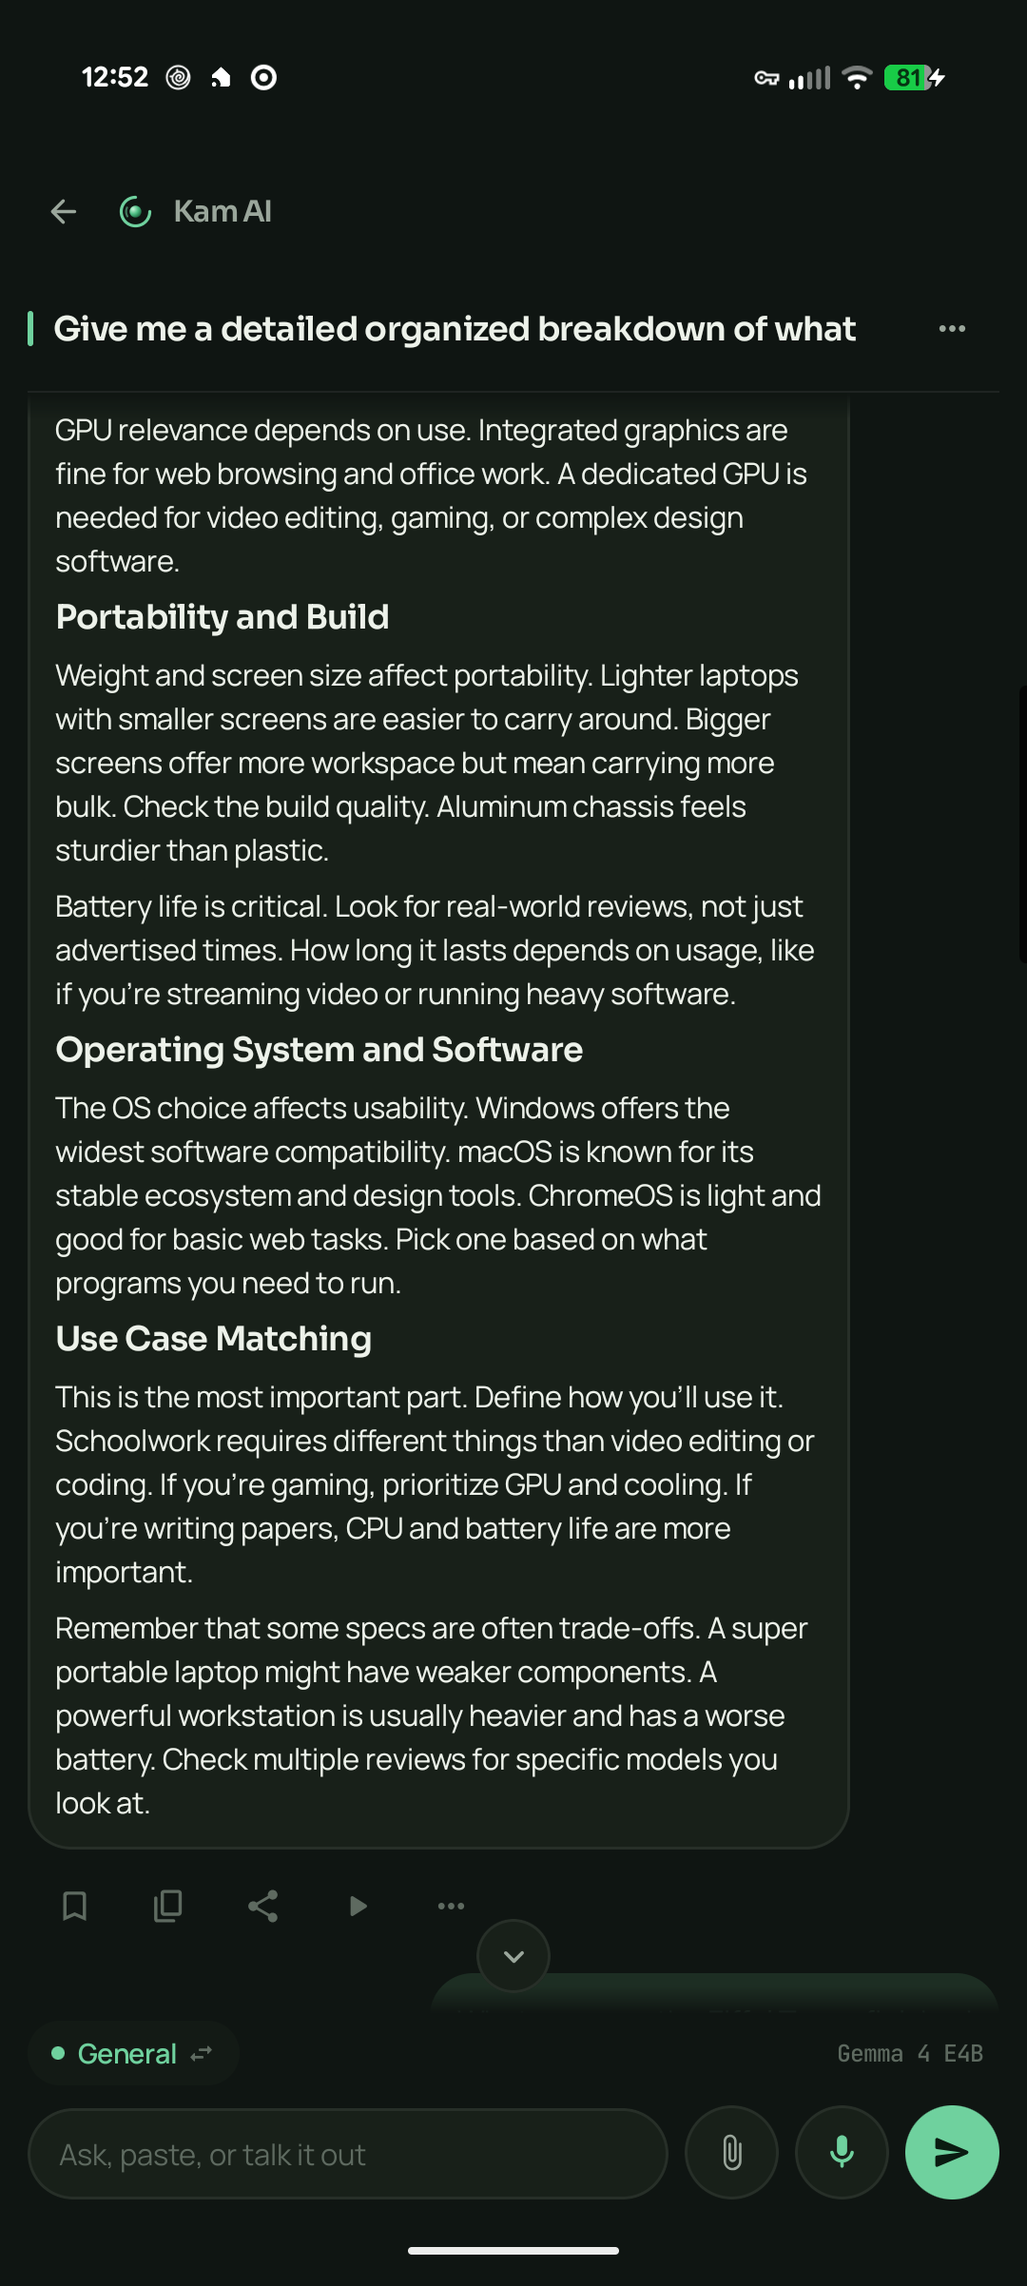
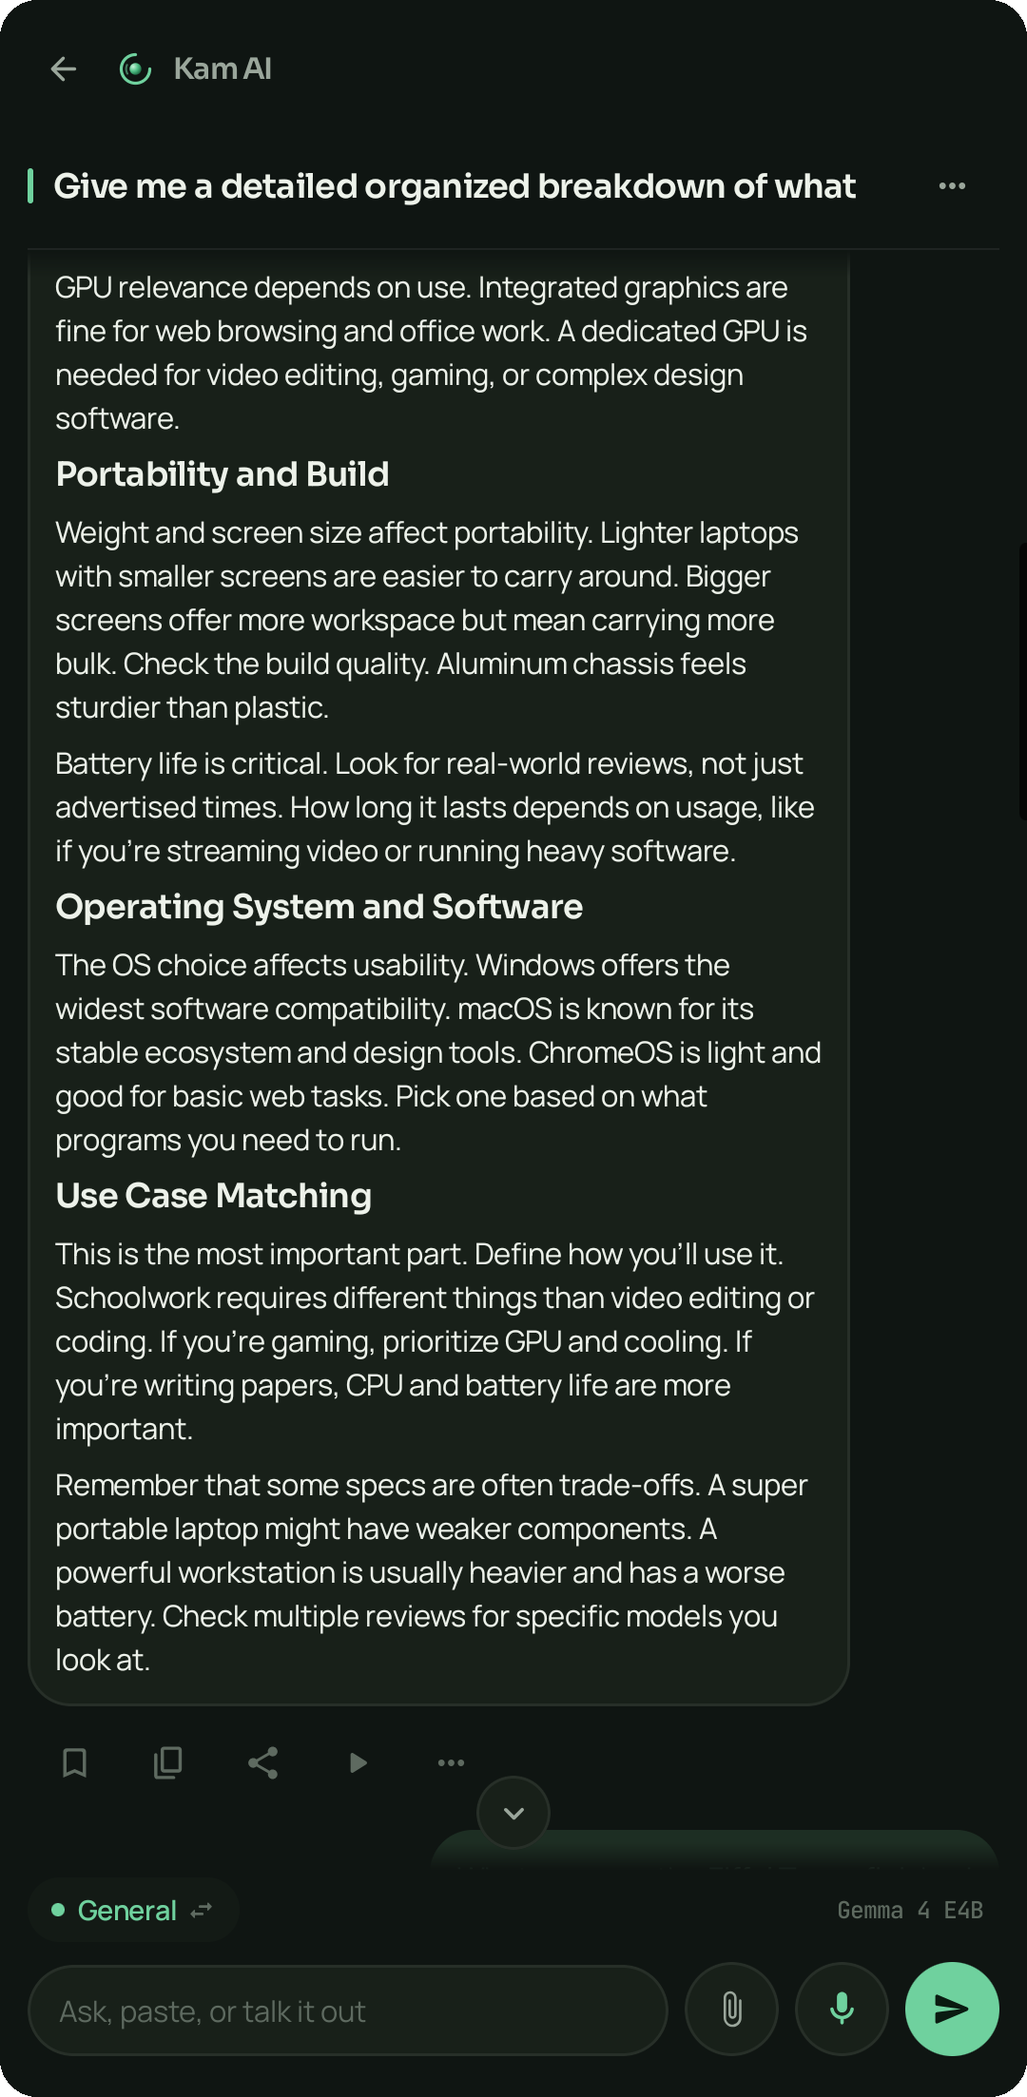
docs: plainer README, and screenshots without the status bar (#113)
The screenshots carried the phone's status bar into every image: the
clock, the signal bars, the battery, and whatever notifications happened
to be sitting there. None of it is the app and none of it is anyone's
business, so it is cropped out. Corners are rounded so each one reads as
a screen rather than a rectangle of pixels, and the whole set is now a
consistent size instead of one odd one out.

The writing was accurate and stiff. It described the app the way a
specification does rather than the way you would explain it to someone
holding a phone, so most of the page is rewritten in plainer language.
The honest limits are still there and still blunt, because softening
those would defeat the point of having them.

The technical section is the deliberate exception and went the other way,
gaining the detail it was missing: what the inference actually does, why
the KV cache is treated as an asset, why StrongBox wraps the key rather
than encrypting the data, and why the schema is already sync ready while
nothing syncs.

The approved How this is built text is untouched.

diff --git a/README.md b/README.md
@@ -4,110 +4,137 @@
 [![Licence: AGPL-3.0](https://img.shields.io/badge/licence-AGPL--3.0-blue)](LICENSE)
 [![Release](https://img.shields.io/badge/release-none%20yet-lightgrey)](https://github.com/Kamsiob/kam-ai/releases)
 
-**A private thinking and drafting tool that runs entirely on your phone.**
+**An AI that runs on your phone instead of somebody else's computer.**
 
-Kam AI downloads an AI model onto your Android phone and runs it there. Your
-conversations, memory, projects and follow-ups stay on the device. There is no
-account, no subscription, no ads, and nothing is collected. Turn on airplane
-mode and it still works.
+You download a model once. After that, everything happens on the device: what you
+ask, what it answers, and anything you save. There is no account to create,
+nothing to subscribe to, no ads, and nothing about you is sent anywhere. Put the
+phone in airplane mode and it still works.
 
-> Kam AI is under active construction. This README describes what is built so
-> far and is updated at the end of every phase.
+> Kam AI is still being built. This page describes what actually works today, not
+> what is planned.
 
-## What it is, and what it is not
+## What it is good at, and what it is not
 
-Kam AI is good at transforming, organizing and rephrasing text you give it, at
-everyday questions, and at pushing back on your ideas.
+It is at its best when you give it something to work with: tidying a messy draft,
+reorganising notes you dumped in a hurry, answering everyday questions, and
+arguing with an idea until you know whether it holds up.
 
-**Kam AI is not a private ChatGPT.** A model small enough to fit on a phone
-knows less than the big cloud models, gets some facts wrong, cannot make images,
-and is weaker at long polished documents. The app says so plainly and builds
-around it: anything worth checking gets a bookmark into Follow-ups instead of a
-confident guess.
+**It is not a private ChatGPT, and saying it was would be dishonest.** A model
+small enough to live on a phone knows less than the enormous ones running in data
+centres. It gets facts wrong sometimes, it cannot make pictures, and it is weaker
+at long, polished documents. The app is built around admitting that rather than
+hiding it. When something is worth double checking, you get a bookmark to come
+back to instead of a confident guess.
 
-There are no characters, no roleplay, no pretend companion, and no emotional
-manipulation. Those are stated design commitments, not just internal rules.
+There are no characters to talk to, no roleplay, no pretend friend, and nothing
+engineered to keep you opening the app. Those are commitments, not settings you
+can turn on later.
 
-**It thinks with you, not for you.** That is the difference the modes are built
-around, and it is why one of them refuses to hand you ideas at all.
+**It thinks with you, not for you.** That is what the four modes are really
+about, and it is why one of them refuses to hand you ideas at all.
 
 ## The four modes
 
-One AI, four ways of working. A mode is chosen when a chat starts and can be
-switched at any time.
+Same AI, four ways of working. You pick one when a chat starts, and you can
+switch at any point without losing what was said.
 
 | Mode | What it does |
 |---|---|
-| **General** | Everyday questions and back-and-forth. |
-| **Logic Partner** | Argues the other side and pokes holes in your thinking. It concedes when you are right, and does not fold just because you disagree. |
-| **Brainstorm** | Will not hand you ideas. It pulls them out of you, using a named facilitation method and asking one question at a time. |
-| **Workbench** | Paste something in and get it rewritten, tightened, or reorganized. Sessions are saved and can be reopened, and each can be linked to a chat about its result. |
+| **General** | Ordinary questions and back and forth. Start here. |
+| **Logic Partner** | Takes the opposite side and tests your reasoning. It admits when you are right, and it does not cave just because you pushed back. |
+| **Brainstorm** | Refuses to hand you ideas. It asks one question at a time and pulls your own out of you instead. |
+| **Workbench** | Paste something in and get it rewritten, tightened or reorganised. Sessions are saved, and each one can be linked to a chat about the result. |
 
-Discover is not a mode. It is a source: offline packs of short reads you can pull
-one from and then discuss, with its own tab.
+Discover is not a mode, it is somewhere to read. Offline packs of short articles:
+pull one out, read it, then talk about it.
 
-## Screenshots
+## What it looks like
 
-Captured from the running app on a Pixel 10 Pro XL, never from a mockup. Light
-and dark, since the app ships both and you will only ever use one of them.
+Real captures from the phone, never mockups.
 
-| | | |
-|---|---|---|
-| ![Chats](docs/screenshots/chats-light.png) | ![A conversation](docs/screenshots/chat-light.png) | ![Discover](docs/screenshots/discover-light.png) |
-| Chats, with the four modes below. Tapping one starts a conversation with that job | A conversation. Answers use headings and lists when the content calls for them, and plain prose when it does not | Discover deals you something to read, offline, and will discuss it without straying from the passage |
-| ![Projects](docs/screenshots/projects-light.png) | ![Follow-ups](docs/screenshots/followups-light.png) | ![Choosing a mode](docs/screenshots/modepicker.png) |
-| Projects keep related chats under shared instructions and notes | Follow-ups collects everything you saved, from anywhere in the app | Switching mode mid-conversation, without losing what was said |
+<table>
+<tr>
+<td width="33%"><img src="docs/screenshots/chats-light.png" alt="The chat list"></td>
+<td width="33%"><img src="docs/screenshots/chat-light.png" alt="A conversation"></td>
+<td width="33%"><img src="docs/screenshots/discover-light.png" alt="Discover"></td>
+</tr>
+<tr>
+<td><b>Your chats.</b> The four modes sit along the bottom. Tapping one starts a new conversation with that job.</td>
+<td><b>A conversation.</b> Answers use headings and lists when the content needs them, and plain sentences when it does not.</td>
+<td><b>Discover</b> deals you something to read, offline, then discusses it without wandering off the page.</td>
+</tr>
+<tr>
+<td><img src="docs/screenshots/projects-light.png" alt="Projects"></td>
+<td><img src="docs/screenshots/followups-light.png" alt="Follow-ups"></td>
+<td><img src="docs/screenshots/modepicker.png" alt="Choosing a mode"></td>
+</tr>
+<tr>
+<td><b>Projects</b> keep related chats together under instructions and notes they all share.</td>
+<td><b>Follow-ups</b> is where everything you saved ends up, from anywhere in the app.</td>
+<td><b>Switching mode</b> partway through a chat, keeping everything already said.</td>
+</tr>
+</table>
 
 <details>
-<summary><b>The same six screens in dark</b></summary>
+<summary><b>The same screens in dark</b></summary>
 
 <br>
 
-| | | |
-|---|---|---|
-| ![Chats, dark](docs/screenshots/chats-dark.png) | ![A conversation, dark](docs/screenshots/chat-dark.png) | ![Discover, dark](docs/screenshots/discover-dark.png) |
-| ![Projects, dark](docs/screenshots/projects-dark.png) | ![Follow-ups, dark](docs/screenshots/followups-dark.png) | ![Choosing a mode, dark](docs/screenshots/modepicker-dark.png) |
+<table>
+<tr>
+<td width="33%"><img src="docs/screenshots/chats-dark.png" alt="The chat list, dark"></td>
+<td width="33%"><img src="docs/screenshots/chat-dark.png" alt="A conversation, dark"></td>
+<td width="33%"><img src="docs/screenshots/discover-dark.png" alt="Discover, dark"></td>
+</tr>
+<tr>
+<td><img src="docs/screenshots/projects-dark.png" alt="Projects, dark"></td>
+<td><img src="docs/screenshots/followups-dark.png" alt="Follow-ups, dark"></td>
+<td><img src="docs/screenshots/modepicker-dark.png" alt="Choosing a mode, dark"></td>
+</tr>
+</table>
 
 </details>
 
-## More than a chat box
+## What else it does
 
-- **Hold the power button** to ask something without leaving what you are doing.
-  Speak or type; the answer arrives over the top of whatever is on screen.
-- **Talk instead of typing.** Your voice becomes text on the phone itself, with
-  whisper.cpp, and the model will tidy a rambling voice note into notes or a
-  draft.
+- **Hold the power button** to ask something without leaving whatever you are in
+  the middle of. Speak or type, and the answer appears over the top of the app
+  you were using.
+- **Talk instead of typing.** Your voice is turned into text on the phone itself,
+  and it will tidy a rambling voice note into something you can actually use.
 - **Attach a document** and ask about what is in it. The file never leaves the
-  phone, and if it is longer than the model can hold, the app says so rather
-  than quietly truncating it.
-- **Projects** keep related chats together under instructions they all follow.
-- **Follow-ups** is one bookmark for the whole app: anything worth checking or
-  coming back to lands in the same list, told apart by where it came from.
-- **Memory** keeps the durable things it notices. Everything it has kept is
-  listed in full in Settings, and any of it can be deleted.
-- **Read aloud** with an on-device voice, male or female, downloaded separately.
-- **Backup and restore** writes everything to one passphrase-locked file, so
-  moving to a new phone does not mean starting over.
+  phone. If it is too long to fit, the app tells you rather than quietly cutting
+  off the end and answering anyway.
+- **Projects** keep related chats together, with instructions and background that
+  every chat inside them already knows.
+- **Follow-ups** is one bookmark for the whole app. Anything worth checking, or
+  worth coming back to, lands in the same list.
+- **Memory** holds the lasting things it picks up about you. You can read all of
+  it in Settings, and delete any of it.
+- **Read aloud** in a voice that also runs on the phone. Male or female,
+  downloaded separately so you only get it if you want it.
+- **Backup and restore** puts everything into one file locked with a passphrase
+  you choose, so moving to a new phone does not mean starting over.
 
 ## Install
 
-Two ways to get it, and they are the same app.
+Two ways to get it. Same app either way.
 
-**Google Play.** The usual route. Updates arrive on their own.
+**From Google Play.** The normal route, and updates arrive on their own.
 
-**GitHub releases.** For people who avoid the Play Store or run a de-Googled
-device, every version is also published here as a plain APK you can download and
-install directly. Grab the newest `.apk` from
-[Releases](https://github.com/kamsiob/kam-ai/releases). The first time you open
-an APK, Android will ask you to allow installs from whichever app you used to
-open it, usually your browser or file manager. That is a one time permission for
-that app, not for Kam AI.
+**Straight from here.** If you avoid the Play Store, or your phone has no Google
+services on it, every version is also published as a plain APK you can install
+yourself. Download the newest `.apk` from
+[Releases](https://github.com/kamsiob/kam-ai/releases) and open it. Android will
+ask once whether to allow installs from whichever app you opened it with, usually
+your browser or file manager. That permission is about that app, not about Kam AI.
 
-The two builds are signed with different keys, so Android treats them as
-separate apps. You cannot install one on top of the other. To switch, uninstall
-the one you have first, then install the other. Your conversations can come with
-you: use Settings, then Backup and restore to export a file before uninstalling,
-and import it after.
+One thing worth knowing before you choose: the two are signed with different keys,
+so Android treats them as separate apps and will not install one over the other.
+If you want to switch later, uninstall the one you have first. Your conversations
+can come with you. Go to Settings, then Backup and restore, and export a file
+before you uninstall, then import it afterwards.
 
 ## Building it yourself
 
@@ -133,52 +160,87 @@ generates tokens through the JNI bridge:
     ./tools/fetch_smoke_model.sh
     ./gradlew :app:connectedDebugAndroidTest
 
-## How it is put together
+## How it actually works
 
-The short version: Kotlin and Jetpack Compose, single activity, Material 3 with a
-fully custom theme and no dynamic colour, because the palette carries meaning.
-llama.cpp compiled for arm64 behind a thin JNI bridge, with the generation loop in
-Kotlin so streaming, stopping and thermal backoff sit next to the rest of the
-logic. One SQLite database through Room and SQLCipher holds everything, shaped so
-a backup is a single portable file.
+The technical section. Everything above is written for someone deciding whether
+to install it; this part assumes you want to know what is under it.
 
-[ARCHITECTURE.md](ARCHITECTURE.md) has the long version: the components and their
-responsibilities, how inference is integrated, how data is stored and protected,
-the threading and lifecycle model, and where the significant constraints come
-from.
+**Inference.** llama.cpp, pinned to a known tag and compiled from source for
+arm64, behind a deliberately thin JNI bridge. The generation loop lives in Kotlin
+rather than in C++, so streaming, cancellation and thermal backoff sit next to the
+rest of the app's logic instead of being trapped behind the native boundary. Built
+with `-O3` and the ARM extensions that matter on recent silicon: dotprod, i8mm,
+fp16, weight repacking, flash attention on auto, `mmap` for the weights. Thread
+count is capped to the performance cores, which alone was worth 54 percent on the
+mid tier model. GPU offload is not used; on this stack it is slower than CPU, and
+that measurement is written down rather than assumed.
+
+**The KV cache is treated as a real asset.** Reopening a conversation restores its
+cache from disk through `llama_state_seq_get_data` instead of re-reading the
+transcript, which took one measured case from 656 tokens and 20 seconds down to 29
+tokens and 2 seconds. Prefix diffing means an ongoing conversation only ever
+prefills what actually changed.
+
+**Which model you get depends on your phone.** Memory is measured at runtime and a
+tier is chosen from it, because loading a model that does not fit does not degrade
+gracefully, it fails. There is one model resident at a time, on purpose.
+
+**Storage.** One SQLite database through Room, encrypted with SQLCipher. The key
+is a software data key wrapped by the Android Keystore, and the reason it works
+that way is worth stating: hardware backed StrongBox turned out to encrypt about
+13 bytes in 20 seconds, which is fine for wrapping a key and useless for
+encrypting a database. The schema is deliberately flat and free of device specific
+values, so a backup is one portable file rather than an export that only restores
+onto the phone it came from.
+
+**It is already sync ready, though nothing syncs.** Every row carries a Lamport
+stamp and the identity of the install that wrote it, deletions leave tombstones,
+and the conflict rule is tested for convergence from both sides. There is no
+transport, no server and no network code. Those pieces are free to add before
+there is data in the wild and impossible to add correctly afterwards.
+
+**Interface.** Kotlin and Jetpack Compose, one activity, Material 3 with a fully
+custom theme and no dynamic colour, because the palette carries meaning that a
+wallpaper should not be allowed to reassign.
+
+**Voice.** whisper.cpp for speech to text and sherpa-onnx for speech back, both on
+the device, both in their own shared libraries with their own copy of ggml so the
+two never collide at link time.
+
+[ARCHITECTURE.md](ARCHITECTURE.md) goes further: the components and their
+responsibilities, the threading and lifecycle model, and where the constraints
+come from. [DECISIONS.md](DECISIONS.md) has the reasoning behind each of the calls
+above, including the ones that turned out to be wrong.
 
 ## Approach
 
-The app is specified before it is built. [MASTER_SPEC.md](MASTER_SPEC.md)
-describes what it does and [DESIGN.md](DESIGN.md) describes how it looks, moves
-and speaks, down to the copy. Both are kept current with the code rather than
-written once at the start; where the code and those documents disagree, the
-documents are the source of truth and the code is wrong.
+The app is written down before it is built. [MASTER_SPEC.md](MASTER_SPEC.md) says
+what it does and [DESIGN.md](DESIGN.md) says how it looks, moves and speaks, down
+to the wording. Both are kept current with the code rather than written once at
+the start, and where the code and those documents disagree, the documents are
+right and the code is wrong.
+
+Decisions are recorded as they are made. [DECISIONS.md](DECISIONS.md) holds every
+architectural and product call that was not obvious, along with why, including the
+ones that turned out to be wrong and the approaches that failed and should not be
+tried again. Two feature requests are in there as declined, with the arithmetic
+that rules them out, so nobody has to relitigate them from scratch.
 
 Work is tracked in the open. The
 [project board](https://github.com/users/Kamsiob/projects/1) is public and holds
-every issue, open and closed, with what platform it belongs to and what state it
-is in. Nothing is marked done until it has been verified on real hardware.
+every issue, open and closed, what platform it belongs to, and what state it is
+in. An issue says what the situation is, why it matters, and what would have to be
+true for it to be finished, so closing one is checkable rather than a matter of
+opinion.
 
-Decisions are recorded as they are made. [DECISIONS.md](DECISIONS.md) holds every
-nontrivial architectural and product call along with the reasoning, including the
-ones that turned out to be wrong and the approaches that failed and should not be
-retried. Two feature requests are recorded there as declined, with the arithmetic
-that rules them out, so they do not get re-proposed from scratch.
+Nothing counts as finished until it has run on a real phone. Tests are necessary
+and nowhere near sufficient: several defects in this codebase compiled cleanly,
+passed their tests, and were still wrong on the device. Some of the most useful
+comments in the source are the ones recording exactly that.
 
-The [issue tracker](https://github.com/Kamsiob/kam-ai/issues) is the authoritative
-record of state. An issue states the current situation, why it matters, and
-acceptance criteria in checkable terms, so that closing one is verifiable rather
-than a judgement call. Working notes go on the issue as the work happens.
-
-Nothing is marked finished until it has been verified on real hardware. Unit tests
-are necessary and not sufficient: several defects in this codebase compiled,
-passed their tests, and were wrong on the device, and a few of the most useful
-comments in the source record exactly that.
-
-[HANDOFF.md](HANDOFF.md) is maintained so the project can be picked up cold, with
-the measurements taken, the approaches that failed, and an honest state of every
-unfinished thing.
+[HANDOFF.md](HANDOFF.md) exists so the project can be picked up cold, with the
+measurements taken, the things that failed, and an honest account of everything
+unfinished.
 
 ### How this is built
 
